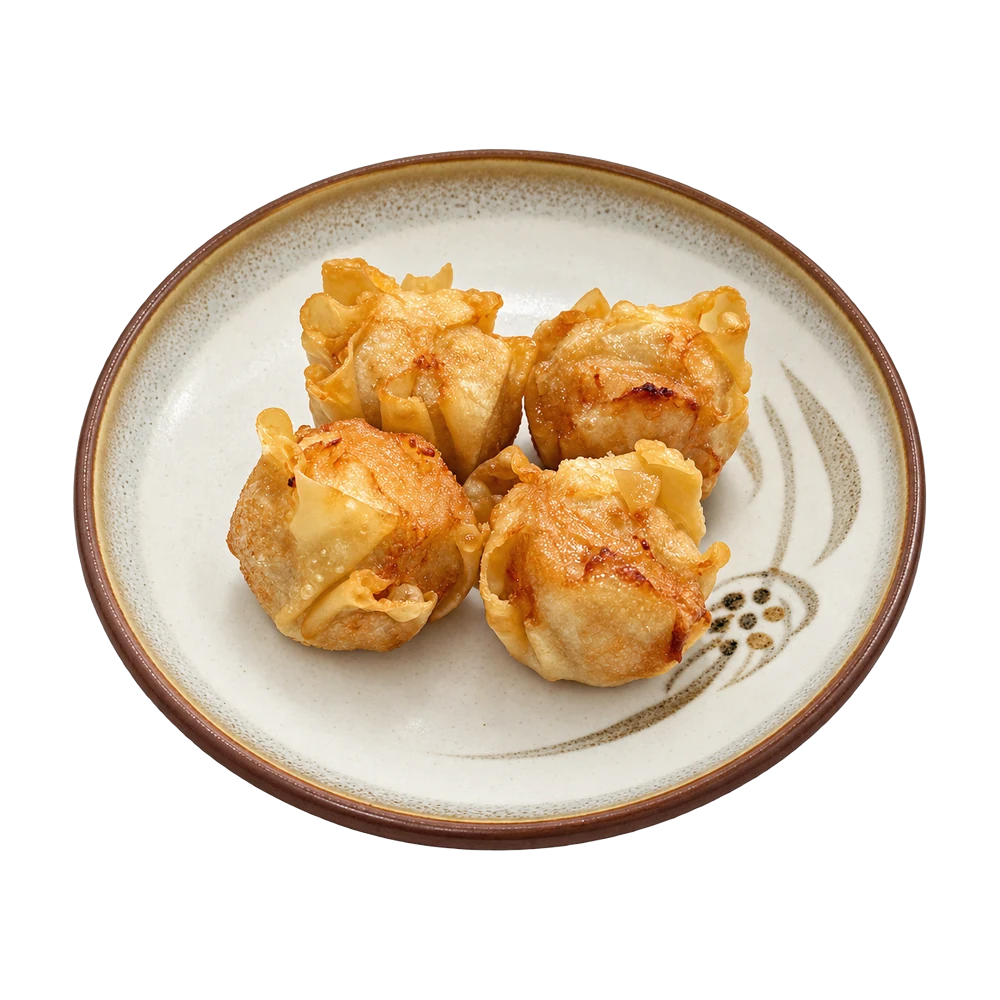
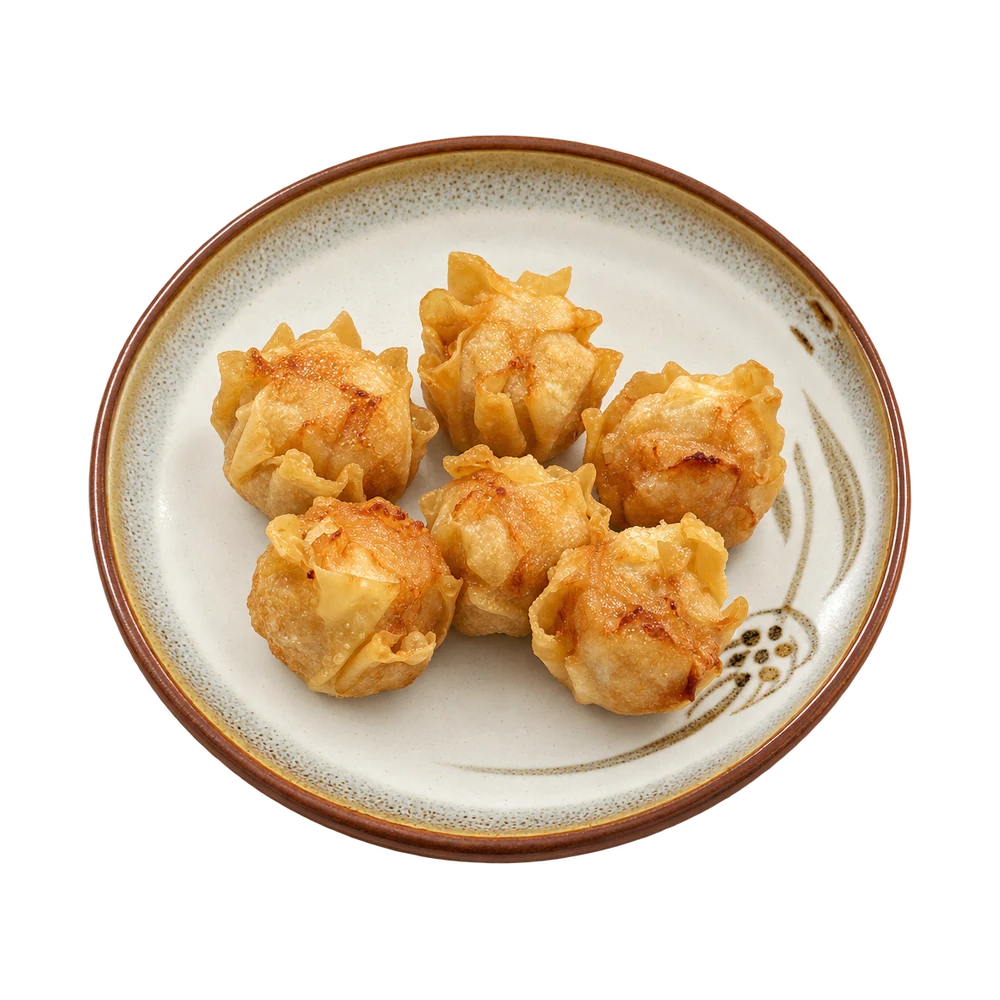
独立审稿第2-5轮修正: 菜单图统一大小与机位、件数按菜单(烧卖/素煎饺 6 个)、相册旧拍摄减到 2 张并对齐木桌色相、手机奇数张改左图右字、大图窗口对齐

diff --git a/components/Gallery.tsx b/components/Gallery.tsx
@@ -7,5 +7,5 @@ export default function Gallery(){
  const trigger=useRef<HTMLButtonElement|null>(null);
  useEffect(()=>{if(selected===null)return;dialog.current?.showModal();const original=document.body.style.overflow;document.body.style.overflow='hidden';return()=>{document.body.style.overflow=original;};},[selected]);
  const close=()=>{dialog.current?.close();setSelected(null);trigger.current?.focus();};
- return <><div className="gallery-grid container">{gallery.map((p,i)=><button className={p.wide?'gallery-tile wide':'gallery-tile'} key={p.src} onClick={e=>{trigger.current=e.currentTarget;setSelected(i);}} aria-label={'Enlarge: '+p.alt}><img src={p.src} alt={p.alt} width="1000" height="800" loading={i>1?'lazy':'eager'}/><span className="gallery-caption">{p.label}<span aria-hidden="true">↗</span></span></button>)}</div>{galleryVideo&&<section className="gallery-video container"><h2>{galleryVideo.title}</h2><video controls playsInline preload="none" poster={galleryVideo.poster} aria-label={galleryVideo.title}><source src={galleryVideo.src} type="video/mp4"/>Your browser does not support embedded video.</video></section>}<dialog ref={dialog} className="lightbox" aria-label="Image gallery" onCancel={e=>{e.preventDefault();close();}} onClick={e=>{if(e.target===e.currentTarget)close();}} onKeyDown={e=>{if(e.key==='ArrowRight'){e.preventDefault();setSelected(i=>i===null?0:(i+1)%gallery.length);}if(e.key==='ArrowLeft'){e.preventDefault();setSelected(i=>i===null?0:(i+gallery.length-1)%gallery.length);}}}>{selected!==null&&<div className="lightbox-content"><button className="lightbox-close" aria-label="Close image" onClick={close}>CLOSE ×</button><img key={selected} src={gallery[selected].src} alt={gallery[selected].alt}/><div className="lightbox-controls"><button onClick={()=>setSelected((selected+gallery.length-1)%gallery.length)} aria-label="Previous image">←</button><p>{gallery[selected].label} <span>{selected+1} / {gallery.length}</span></p><button onClick={()=>setSelected((selected+1)%gallery.length)} aria-label="Next image">→</button></div></div>}</dialog></>;
+ return <><div className="gallery-grid container">{gallery.map((p,i)=><button className={'gallery-tile'+(p.wide?' wide':'')+(p.wideSm?' wide-sm':'')} key={p.src} onClick={e=>{trigger.current=e.currentTarget;setSelected(i);}} aria-label={'Enlarge: '+p.alt}><img src={p.src} alt={p.alt} width="1000" height="800" loading={i>1?'lazy':'eager'}/><span className="gallery-caption">{p.label}<span aria-hidden="true">↗</span></span></button>)}</div>{galleryVideo&&<section className="gallery-video container"><h2>{galleryVideo.title}</h2><video controls playsInline preload="none" poster={galleryVideo.poster} aria-label={galleryVideo.title}><source src={galleryVideo.src} type="video/mp4"/>Your browser does not support embedded video.</video></section>}<dialog ref={dialog} className="lightbox" aria-label="Image gallery" onCancel={e=>{e.preventDefault();close();}} onClick={e=>{if(e.target===e.currentTarget)close();}} onKeyDown={e=>{if(e.key==='ArrowRight'){e.preventDefault();setSelected(i=>i===null?0:(i+1)%gallery.length);}if(e.key==='ArrowLeft'){e.preventDefault();setSelected(i=>i===null?0:(i+gallery.length-1)%gallery.length);}}}>{selected!==null&&<div className="lightbox-content"><button className="lightbox-close" aria-label="Close image" onClick={close}>CLOSE ×</button><img key={selected} src={gallery[selected].src} alt={gallery[selected].alt}/><div className="lightbox-controls"><button onClick={()=>setSelected((selected+gallery.length-1)%gallery.length)} aria-label="Previous image">←</button><p>{gallery[selected].label} <span>{selected+1} / {gallery.length}</span></p><button onClick={()=>setSelected((selected+1)%gallery.length)} aria-label="Next image">→</button></div></div>}</dialog></>;
 }

diff --git a/content/featured.ts b/content/featured.ts
@@ -4,12 +4,12 @@
 //  · customers' Google Maps photos, cropped + lightly corrected (2026-10-01) → dish-*.webp
 //    Each guest photo is tied to one menu entry (see content/photo-sources.json and docs/design-references.md);
 //    replace them with the restaurant's own shots when available.
-// A photo is only shown on the item it depicts; `label` is for one photo that fits two menu entries with the same price.
+// A photo is only shown on the item it depicts; `label` is for one photo that fits two menu entries with the same price, and for the bento trio (the menu's letter codes "I." / "D." read as stray characters under a photo).
 type Feat = {itemId:string; img:string; badge?:string; label?:string; alt?:string};
 const bentoTrio = (shrimp:string,katsu:string,sashimi:string):Feat[] => [
-  {itemId:shrimp, img:'/images/dish-bento-shrimp-teriyaki.webp', alt:'Shrimp teriyaki bento box with sushi rolls, rice and shumai'},
+  {itemId:shrimp, img:'/images/dish-bento-shrimp-teriyaki.webp', label:'Shrimp Teriyaki Bento Box', alt:'Shrimp teriyaki bento box with sushi rolls, rice and shumai'},
   {itemId:katsu, img:'/images/dish-bento-katsu.webp', label:'Katsu Bento Box', alt:'Katsu bento box with rice, California roll and shumai'},
-  {itemId:sashimi, img:'/images/dish-bento-sashimi.webp', alt:'Sashimi bento box with tuna, salmon and white fish sashimi, rice, California rolls and fried chicken'},
+  {itemId:sashimi, img:'/images/dish-bento-sashimi.webp', label:'Sashimi Bento Box', alt:'Sashimi bento box with tuna, salmon and white fish sashimi, rice, California rolls and fried chicken'},
 ];
 const ricePair = (teri:string,katsu:string,gyu:string):Feat[] => [
   {itemId:teri, img:'/images/dish-chicken-teriyaki.webp', alt:'Grilled chicken teriyaki over white rice with broccoli'},
@@ -29,8 +29,8 @@ export const featured: Record<string, Feat[]> = {
   'dinner--appetizers': [
     {itemId:'dinner-0-5',  img:'/images/dish-takoyaki.webp', alt:'Takoyaki with Kewpie mayo and bonito flakes'},
     {itemId:'dinner-0-7',  img:'/images/dish-gyoza.webp', alt:'Pan fried pork gyoza with dipping sauce'},
-    {itemId:'dinner-0-14', img:'/images/dish-vegetable-gyoza.webp', alt:'Pan fried vegetable gyoza on a bamboo leaf'},
-    {itemId:'dinner-0-6',  img:'/images/dish-shumai.webp', alt:'Fried shrimp shumai'},
+    {itemId:'dinner-0-14', img:'/images/dish-vegetable-gyoza.webp', alt:'Six pan fried vegetable gyoza on a bamboo leaf'},
+    {itemId:'dinner-0-6',  img:'/images/dish-shumai.webp', alt:'Six fried shrimp shumai on a stoneware plate'},
     {itemId:'dinner-0-13', img:'/images/dish-ika-yaki.webp', alt:'Grilled whole squid with teriyaki glaze and a lemon wedge'},
     {itemId:'dinner-0-1',  img:'/images/dish-edamame.webp', alt:'A bowl of steamed edamame'},
     {itemId:'dinner-0-8',  img:'/images/dish-karaage.webp', alt:'Karaage fried chicken with sesame seeds and spicy mayo dip'},
@@ -50,7 +50,7 @@ export const featured: Record<string, Feat[]> = {
   'happy-hour--appetizers': [
     {itemId:'happy-hour-0-2', img:'/images/dish-edamame.webp', alt:'A bowl of steamed edamame'},
     {itemId:'happy-hour-0-5', img:'/images/dish-gyoza.webp', alt:'Pan fried pork gyoza with dipping sauce'},
-    {itemId:'happy-hour-0-3', img:'/images/dish-shumai.webp', alt:'Fried shrimp shumai'},
+    {itemId:'happy-hour-0-3', img:'/images/dish-shumai.webp', alt:'Six fried shrimp shumai on a stoneware plate'},
   ],
   'lunch--sushi-bar': [
     {itemId:'lunch-0-1', img:'/images/dish-lunch-sashimi.webp', alt:'Sashimi plate with sushi rice, tuna tartare, salmon, yellowtail and tuna'},

diff --git a/content/media.ts b/content/media.ts
@@ -4,11 +4,9 @@ export const gallery = [
  {src:'/images/shot-hero-noodle-lift.webp',alt:'Chopsticks lifting thick noodles from a bowl of grilled chicken noodle soup',label:'NOODLES',wide:false},
  {src:'/images/shot-long-table.webp',alt:'A long communal table set for a group in the Zen dining room',label:'THE SPACE',wide:false},
  {src:'/images/shot-shared-table.webp',alt:'Ramen, sushi rolls and an iced drink shared across one table',label:'AT THE TABLE',wide:false},
- // 以下四张来自店家早先自己的拍摄(Google Drive 4.13–8.18),只裁切+提亮+调暖,不生成。成组插在中间:宽/窄/窄/宽,电脑(3 列)和手机(2 列)都排满
+ // 以下两张来自店家早先自己的拍摄(Google Drive 4.13–8.18),只裁切+提亮+把桌面色相对齐现有木桌(琥珀 ≈34°),不生成。电脑 3 列:宽+窄排满一行;手机 2 列:素拉面那张也占整行(wideSm),不留空格。三轮独立审稿后只留这两张——其余旧拍摄的灰桌面/虚焦融不进现有相册,只做菜单抠图的参考。
  {src:'/images/archive-table-spread.webp',alt:'A full table seen from above: ramen, yaki udon, sushi rolls, gyoza and karaage',label:'THE SPREAD',wide:true},
- {src:'/images/archive-vegetable-ramen.webp',alt:'Vegetable ramen with glazed tofu, bok choy and greens, seen from above',label:'VEGGIE RAMEN',wide:false},
- {src:'/images/archive-karaage.webp',alt:'Karaage fried chicken with sesame seeds and a spicy mayo dip, seen from above',label:'SMALL PLATES',wide:false},
- {src:'/images/archive-sushi-platter.webp',alt:'A sushi and sashimi platter with an orchid',label:'FROM THE SUSHI BAR',wide:true},
+ {src:'/images/archive-vegetable-ramen.webp',alt:'Vegetable ramen with glazed tofu, bok choy and greens, seen from above',label:'VEGGIE RAMEN',wide:false,wideSm:true},
  {src:'/images/shot-sashimi-box.webp',alt:'A wooden box of salmon, tuna and yellowtail sashimi with sushi rolls',label:'SUSHI & SASHIMI',wide:true},
  {src:'/images/shot-hh-martini.webp',alt:'A pink martini on the wooden bar',label:'HAPPY HOUR',wide:false},
  {src:'/images/shot-gallery-lantern.webp',alt:'A paper lantern and hanging banners in the dining room',label:'THE DETAILS',wide:false},

diff --git a/app/globals.css b/app/globals.css
@@ -152,9 +152,11 @@ html{overflow-anchor:none}
 /* ===== 手机版复核 2026-10-02(独立审稿后的修正;只动手机端细节,不改结构) ===== */
 .cta-band .eyebrow{color:#fff}
 .cta-band-note span{white-space:nowrap}
-.lightbox::backdrop{background:#0e100efa}
-.lightbox-close{padding:16px 2px 16px 14px}
-.lightbox-close:focus-visible{outline:2px solid #fff;outline-offset:-4px}
+.lightbox::backdrop{background:#0e100e}
+.lightbox-close{padding:14px 12px;margin-bottom:8px}
+/* 大图窗口按照片宽度收紧:CLOSE 与左右箭头都对齐照片边缘(原来固定 1100px,竖图时按钮悬在照片外) */
+.lightbox{width:fit-content;min-width:min(92vw,420px)}
+.lightbox-close:focus-visible{outline:1px solid #fff8;outline-offset:-1px}
 .footer-bottom .nowrap{white-space:nowrap}
 @media(max-width:1000px){
 /* 展开的导航可以在面板内滚动:ORDER ONLINE 下拉打开后,下面的 EVENTS/CATERING 与 RESERVE TODAY 仍够得着 */
@@ -169,7 +171,9 @@ html{overflow-anchor:none}
 body{padding-bottom:calc(68px + env(safe-area-inset-bottom))}
 /* 菜品图注:菜名一行、价格另起一行,避免「Ramen」「(Dry)」单独掉到第二行 */
 .featured-dish figcaption{flex-direction:column;align-items:flex-start;gap:2px}
-/* 一排两张时,奇数张的最后一张占满整行(横向卡片),不留空格 */
-.featured-dish:last-child:nth-child(odd){grid-column:1 / -1}
-.featured-dish:last-child:nth-child(odd) .featured-photo{aspect-ratio:2/1}
+/* 相册:手机两列时,标了 wide-sm 的窄图也占整行(否则单独一张会留空格) */
+.gallery-tile.wide-sm{grid-column:span 2;height:270px}
+/* 一排两张时,奇数张的最后一张占满整行:左边同样大小的方图,右边菜名+价格(不留空格,也不把图拉成横条) */
+.featured-dish:last-child:nth-child(odd){grid-column:1 / -1;display:grid;grid-template-columns:1fr 1fr;gap:12px;align-items:center}
+.featured-dish:last-child:nth-child(odd) figcaption{margin-top:0}
 }

diff --git a/tests/site.spec.ts b/tests/site.spec.ts
@@ -29,7 +29,7 @@ test('mobile navigation, delivery menu and Escape',async({page})=>{
 });
 test('gallery dialog keyboard controls and focus restoration',async({page})=>{
  await page.goto('/gallery/');const first=page.getByRole('button',{name:/Enlarge:/}).first();await first.click();
- await expect(page.getByRole('dialog')).toBeVisible();await page.keyboard.press('ArrowRight');await expect(page.locator('.lightbox-controls')).toContainText('2 / 13');
+ await expect(page.getByRole('dialog')).toBeVisible();await page.keyboard.press('ArrowRight');await expect(page.locator('.lightbox-controls')).toContainText('2 / 11');
  await page.keyboard.press('Escape');await expect(page.getByRole('dialog')).not.toBeVisible();await expect(first).toBeFocused();
 });
 test('map loads only on request and can switch back without shifting the card',async({page})=>{

diff --git a/scripts/fit-dish.py b/scripts/fit-dish.py
@@ -1,0 +1,25 @@
+#!/usr/bin/env python3
+"""把透明底菜品图统一摆进 1000x1000 画布: 外接框面积占 60%, 长边不超过 85%, 居中。
+用法: python3 scripts/fit-dish.py <输入 png/webp> <输出 webp>
+放大会糊, 所以输入比目标小时只居中不放大(重做请拿 1024 原始 PNG)。"""
+import sys
+from PIL import Image
+
+CANVAS, AREA, LONG = 1000, 0.60, 0.85
+
+def fit(src, dst):
+    im = Image.open(src).convert('RGBA')
+    box = im.split()[3].point(lambda v: 255 if v > 20 else 0).getbbox()
+    im = im.crop(box)
+    w, h = im.size
+    s = min((AREA * CANVAS * CANVAS / (w * h)) ** 0.5, LONG * CANVAS / max(w, h))
+    if src.lower().endswith('.webp'):
+        s = min(s, 1)
+    im = im.resize((round(w * s), round(h * s)), Image.LANCZOS)
+    out = Image.new('RGBA', (CANVAS, CANVAS), (0, 0, 0, 0))
+    out.alpha_composite(im, ((CANVAS - im.width) // 2, (CANVAS - im.height) // 2))
+    out.save(dst, 'WEBP', quality=88, method=6)
+    print(f'{dst}: {im.width}x{im.height} area={im.width * im.height / CANVAS ** 2:.0%}')
+
+if __name__ == '__main__':
+    fit(sys.argv[1], sys.argv[2])

diff --git a/docs/menu-dish-images.md b/docs/menu-dish-images.md
@@ -18,15 +18,15 @@ DISH: <该菜在参考图里的样子，一句话，见下>
 
 ## 每道菜的 DISH 句
 - bento-shrimp-teriyaki：Japanese bento box in a black lacquer tray with red compartments: four California-style rolls with avocado and cucumber (top left), white rice (top right), stir-fried teriyaki shrimp with snow peas, onion and red pepper (bottom left), four fried dumplings (bottom right).
-- bento-katsu：katsu bento in a red-brown lacquer tray: sliced breaded cutlet with small yellow pickle pieces, white rice, avocado-cucumber roll pieces, fried shumai dumplings, a lemon wedge, a small green salad.
+- bento-katsu：katsu bento in a red-brown lacquer tray: sliced breaded cutlet with small yellow pickle pieces, white rice, avocado-cucumber roll pieces, fried shumai dumplings, a lemon wedge and pickled ginger(参考照片里的沙拉是盒外的另一份小菜,不画进盒里).
 - chicken-teriyaki：grilled chicken teriyaki pieces glazed with dark teriyaki sauce, over white rice with one broccoli floret, in a wide round speckled stoneware plate.
 - katsu-rice：breaded fried katsu cutlet, sliced, over white rice with a broccoli floret and sliced scallions, in a wide round cream stoneware bowl.
 - gyu-don：marinated sliced beef stir-fried with green and red bell peppers, onions and scallions, in a wide round speckled grey-white stoneware plate.
 - lunch-sashimi：sashimi lunch on a white square plate: salmon, yellowtail and tuna slices on shredded carrot and shiso, a mound of white sushi rice with sesame, a small black bowl of chopped tuna tartare with scallions.
 - takoyaki：takoyaki octopus balls with Kewpie mayonnaise and takoyaki sauce, bonito flakes and scallions, on a green bamboo leaf on a dark rectangular tray.
 - gyoza：pan-fried pork gyoza with golden seared bottoms and a small dish of soy dipping sauce, on a green-glazed dark rectangular plate.
-- vegetable-gyoza：five pan-fried vegetable gyoza with green wrappers, seared golden on one side, on a bamboo leaf on a round white plate.
-- shumai：four fried shrimp shumai with crispy golden wrappers, on a round cream stoneware plate with a brown pattern.
+- vegetable-gyoza：EXACTLY SIX pan-fried vegetable gyoza(菜单写 6 pcs,参考图只有 5 个)with soft natural spinach-green wrappers(not neon), seared golden on one side, on a bamboo leaf on a round white plate.
+- shumai：EXACTLY SIX fried shrimp shumai(菜单写 6 pcs,顾客照片里只剩 4 个) with crispy golden wrappers, on a round cream stoneware plate with a brown pattern.
 - ika-yaki：grilled whole squid with teriyaki-style glaze, the body sliced into rings, tentacles beside it, a lemon wedge, on a green leaf on a dark blue-grey rectangular plate.
 - edamame：steamed edamame pods in a small dark brown ceramic bowl with a pour spout.
 - zen-don：chirashi-style rice bowl: assorted sashimi (tuna, yellowtail, white fish, salmon), sweet egg omelet, crab stick, shredded carrot, pickled ginger and wasabi over sushi rice, in a dark speckled blue bowl.
@@ -51,8 +51,14 @@ gpt-image-2.5-sunburst（质量优先档）· 编辑接口 + `background=transpa
 ## 2026-10-02 补:店家自己的旧拍摄(Google Drive)
 Google Drive「Zen Ramen & Sushi」(5 次拍摄 4.13–8.18,594 张照片 + 315 条视频,Sony A7R5,店家自己请人拍的 → 无版权顾虑)。全部看过,精选 63 张存在飞书 `024 Zen Ramen Penn/图片/1002 店家旧拍摄精选(Google Drive)`(token `E2iVfFs0Ql9FSqdfSsuc1C5jnHc`)与 `fyno-proposals/clients/zenramen-midtown/drive-shoot-picks-2026-10-02/`(含 README 索引、每张的 Drive 原片链接、全量缩略总览)。
 - **菜单透明图(同一套 prompt,参考=店家自己的照片)新增 8 张 + 替换 1 张**:Spicy Beef Ramen、Tomato Seafood Ramen(去掉了碗里的木勺)、Chicken Yaki Udon(改成正俯拍,和一排俯拍拉面碗统一)、Karaage、Crispy Wings、69 Shrimp、Salmon Lunch — Sushi、Eel Lunch — Sushi;Vegetables Ramen 由「顾客照片参考」换成「店家照片参考」(`dish-vegetables-ramen.webp`,旧 `dish-vegetable-ramen.webp` 已删)。
-- **相册加 4 张场景图** `archive-*.webp`(整桌俯拍 THE SPREAD / 素拉面俯拍 VEGGIE RAMEN / 唐扬俯拍 SMALL PLATES / 寿司刺身拼盘 FROM THE SUSHI BAR):只裁切 + 提亮 + **把灰色桌面调成暖木色**(对低饱和像素乘 R×1.20、B×0.66,对有颜色的食物只轻微调暖),与现有木桌暖调统一,不生成。成组插在相册中间,顺序 宽/窄/窄/宽,电脑 3 列与手机 2 列都排满(窄图必须成对出现,否则手机上会空一格)。试过又弃用的:炒乌冬(上半截是虚的砖墙)、鸡翅(过饱和、被裁)、便当(黑盒子占一半)、心形卷特写(发虚)。
+- **相册加 2 张场景图** `archive-table-spread.webp`(整桌俯拍 THE SPREAD,宽)+ `archive-vegetable-ramen.webp`(素拉面俯拍 VEGGIE RAMEN,窄;手机上占整行):只裁切 + 提亮 + **把桌面色相对齐**,不生成。依据是量出来的——现有相册的木桌色相 32–35°、饱和 0.4–0.75,旧拍摄的桌面是 44–52°(偏黄绿)或灰紫;只把 30–75° 这段色相拉到 34°,绿色蔬菜与红橙色食物不动。三轮独立审稿后的结论:旧拍摄里只有这两张融得进现有相册,唐扬/寿司拼盘/两碗拉面等(灰桌面、虚焦、碗被切)都撤掉,只当菜单抠图的参考。
 - **一排必须排满**:每个有配图的分区,图的张数必须是 3 的倍数(`check-menu-photos.mjs data` 强制)。Rainbow / Crazy Yellowtail / Sweetheart 三个卷的透明图已做好但**没上线**(各自分区只有 1 张,会留一大块空白);等同分区再凑 2 张能对上菜名的卷再上。
 - Tomato Seafood Ramen 的菜名是按菜单描述推断的(红汤、普通豆芽、无辣椒丝),待店里确认。
-- **统一大小(独立审稿后)**:透明图不再按「长边 84%」,而是按**外接框面积占画布 60%、长边不超过 90%**缩放——长盘子(煎饺、鸡翅、便当)不再显得比圆碗小一圈。重新处理要从原始 1024 PNG 做(母版在 `fyno-proposals/clients/zenramen-midtown/menu-dish-cutouts-2026-10-01/png/` 与本次会话的生成目录),不要拿 webp 二次缩放。
+- **统一大小(独立审稿后)**:透明图不再按「长边 84%」,而是按**外接框面积占画布 60%、长边不超过 85%**缩放(脚本 `scripts/fit-dish.py`;90% 时长盘子在放大档的格子里几乎贴边)——长盘子(煎饺、鸡翅、便当)不再显得比圆碗小一圈。重新处理要从原始 1024 PNG 做(母版在 `fyno-proposals/clients/zenramen-midtown/menu-dish-cutouts-2026-10-01/png/` 与本次会话的生成目录),不要拿 webp 二次缩放。
 - 蔬菜煎饺绿色过艳:只对绿色占优的像素降饱和 22%。
+
+## 第四轮独立审稿后的定稿规则(2026-10-02)
+- **件数以菜单为准**:菜名里写了「(N pcs)」的,图上就是 N 个。参考照片是顾客吃到一半拍的(烧卖只剩 4 个、素煎饺 5 个)时,把 prompt 里的 `same pieces and count` 去掉,改写 `EXACTLY SIX …(the menu portion is 6 pieces)`。上线前逐张数一遍。
+- **同一分区的三张要同一个机位**:便当三张统一成「45° 俯视、盒子转约 25°、近角朝向镜头、能看到盒子前壁和脚」。做法是把 `Keep a similar camera angle to the reference.` 换成一段 `CAMERA (change from the reference): …`。盒子本身的颜色/格局仍照实物(虾照烧是黑框红格,炸排与刺身是红盒)。
+- **同组大小靠眼睛对齐**:虾照烧便当的盒子更方,按面积规则摆进去会比另外两个红盒显大,所以单独把长边收成 78%(其余照 `scripts/fit-dish.py` 的默认)。
+- **图注**:便当三张用统一的 `label`(… Bento Box),不显示菜单上的字母编号。
